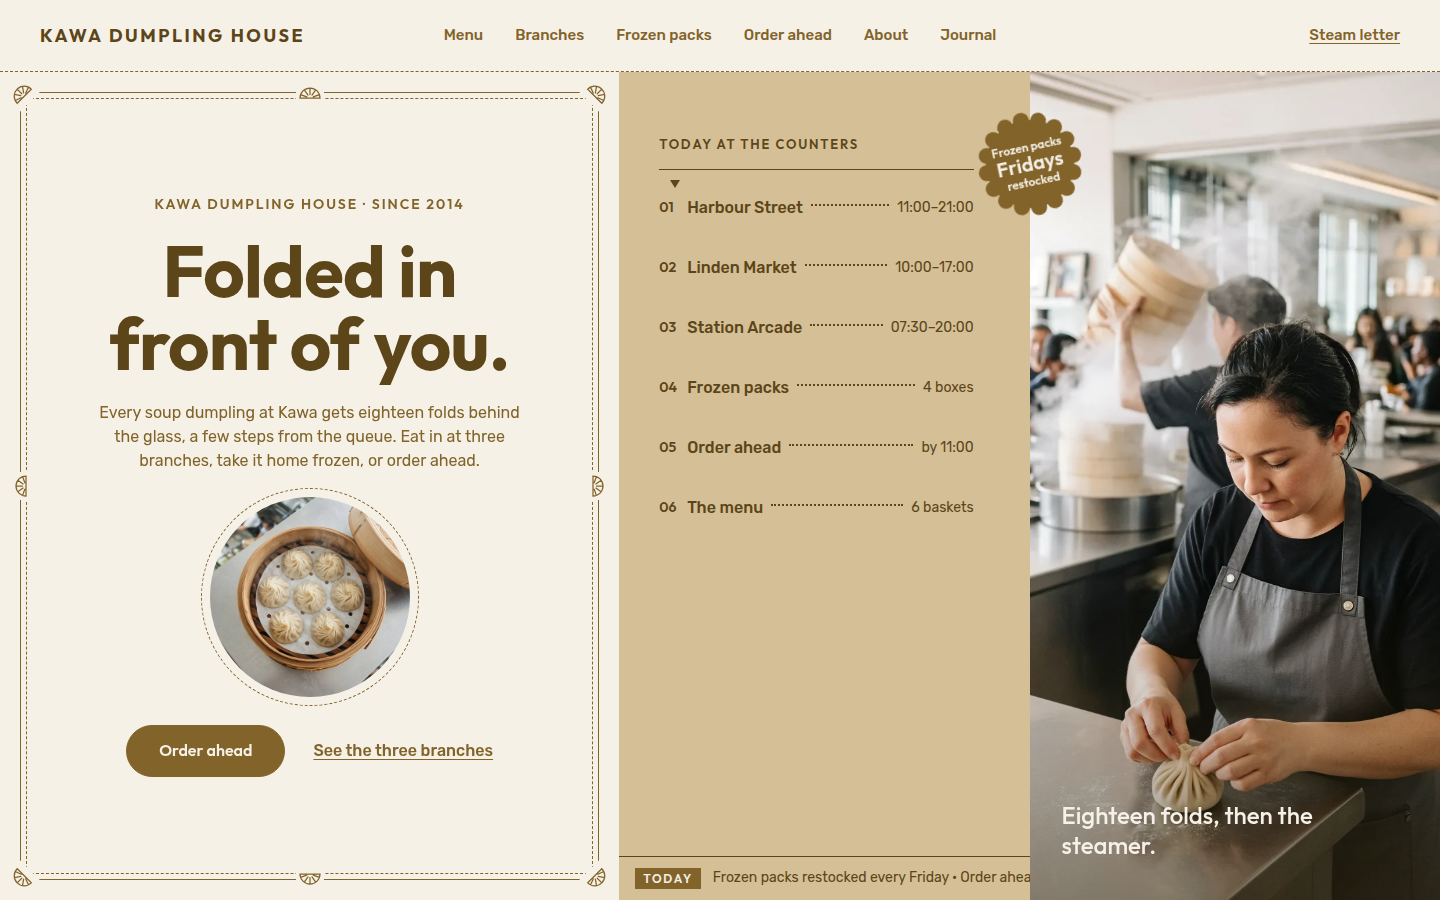
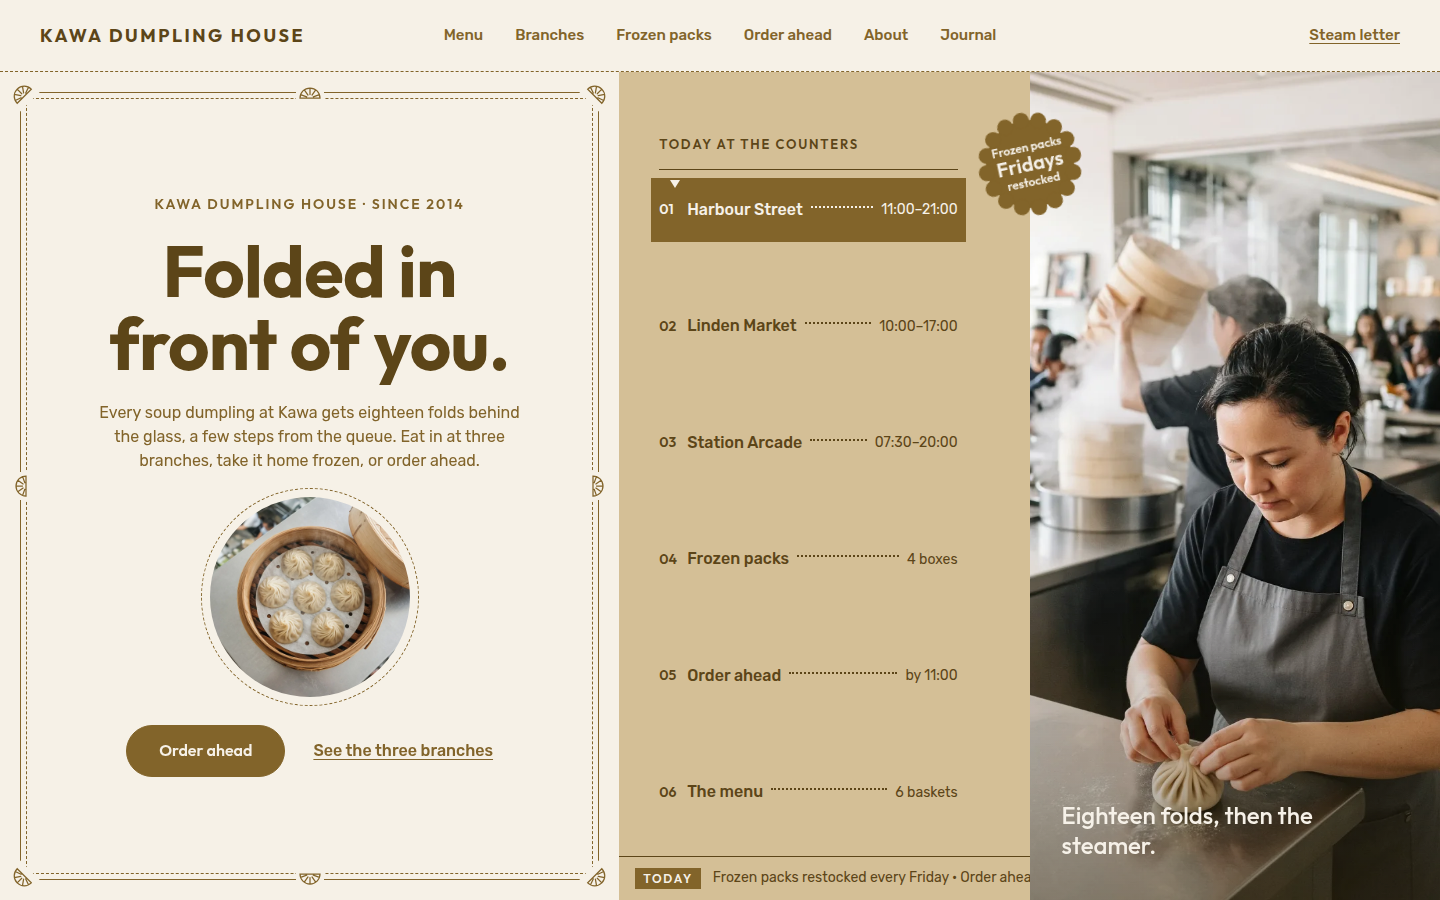
Kawa Dumpling House: fill the hero index panel, inverted current row, Menu text button, footer weekend hours, pleated frozen-trays photo, new screenshot

diff --git a/themes/kawa-dumplings/style.css b/themes/kawa-dumplings/style.css
@@ -128,7 +128,9 @@ hr.kd-ticket__rule { width: 100% !important; height: 0; border: 0; border-top: 1
 @media (max-width: 1099px) {
 	.kd-head { grid-template-columns: 1fr auto; padding: 0 24px; }
 	.kd-head__letter { display: none; }
-	.kd-nav .wp-block-navigation__responsive-container-open:not(.always-shown) { display: flex; }
+	.kd-nav .wp-block-navigation__responsive-container-open:not(.always-shown) { display: flex; align-items: center; gap: 8px; padding: 8px 14px; border: 1px solid var(--kd-ink); border-radius: 999px; font-family: var(--kd-display); font-weight: 600; font-size: .875rem; letter-spacing: .06em; color: var(--kd-ink); }
+	.kd-nav .wp-block-navigation__responsive-container-open:not(.always-shown) svg { display: none; }
+	.kd-nav .wp-block-navigation__responsive-container-open:not(.always-shown)::after { content: "Menu"; }
 	.kd-nav .wp-block-navigation__responsive-container:not(.hidden-by-default):not(.is-menu-open) { display: none; }
 }
 .kd-nav .wp-block-navigation__responsive-container.is-menu-open { background: var(--kd-paper); color: var(--kd-deep); }
@@ -176,11 +178,14 @@ hr.kd-ticket__rule { width: 100% !important; height: 0; border: 0; border-top: 1
 .editor-styles-wrapper .kd-rim__ln, html.sp-no-motion .kd-rim__ln { animation: none !important; transform: none !important; }
 
 /* S3: clay index with dotted leaders, ▾ marker, ticker */
-.kd-index { position: relative; display: flex; flex-direction: column; padding: 64px 56px 44px 40px; background: var(--kd-clay); color: var(--kd-deep); }
+.kd-index { position: relative; display: flex; flex-direction: column; padding: 64px 72px 60px 40px; background: var(--kd-clay); color: var(--kd-deep); }
 .kd-ix__label { font-family: var(--kd-display); font-weight: 600; font-size: .8125rem; line-height: 1.3; letter-spacing: .14em; text-transform: uppercase; color: var(--kd-deep); }
 hr.kd-ix__rule { width: 100% !important; height: 0; border: 0; border-top: 1px solid var(--kd-deep); opacity: 1; margin: 16px 0 8px; background: none; }
+.kd-ix__list { flex: 1 1 auto; display: flex; flex-direction: column; justify-content: space-between; padding-bottom: 16px; }
 .kd-ix__row { position: relative; margin: 0; }
-.kd-ix__row a { display: flex; align-items: center; height: 60px; margin: 0 -8px; padding: 0 8px; color: var(--kd-deep); text-decoration: none; transition: background-color .3s ease, color .3s ease; }
+.kd-ix__list > .kd-ix__row:first-child a { background: var(--kd-ink); color: var(--kd-cream); }
+.kd-ix__list > .kd-ix__row:first-child .kd-ix__mark path { fill: var(--kd-cream); }
+.kd-ix__row a { display: flex; align-items: center; height: 64px; margin: 0 -8px; padding: 0 8px; color: var(--kd-deep); text-decoration: none; transition: background-color .3s ease, color .3s ease; }
 .kd-ix__row a:hover, .kd-ix__row a:focus-visible { background: var(--kd-ink); color: var(--kd-cream); }
 .kd-ix__n { flex: none; width: 28px; font-family: var(--kd-display); font-weight: 600; font-size: .875rem; }
 .kd-ix__l { flex: none; font-weight: 500; font-size: 1rem; }

diff --git a/themes/kawa-dumplings/inc/i18n/en.php b/themes/kawa-dumplings/inc/i18n/en.php
@@ -58,7 +58,7 @@ return array(
 	'ft2_h' => 'Tue–Sat 10:00–17:00',
 	'ft2_h_d' => 'Hours',
 	'ft3_a' => 'Unit 4, Station Arcade',
-	'ft3_h' => 'Mon–Fri 07:30–20:00',
+	'ft3_h' => 'Mon–Fri 07:30–20:00, Sat–Sun 10:00–18:00',
 	'ft3_h_d' => 'Hours',
 	'ft_bottom' => '© Kawa Dumpling House · Port Aldren · Since 2014',
 	'ft_contact' => 'Contact',
